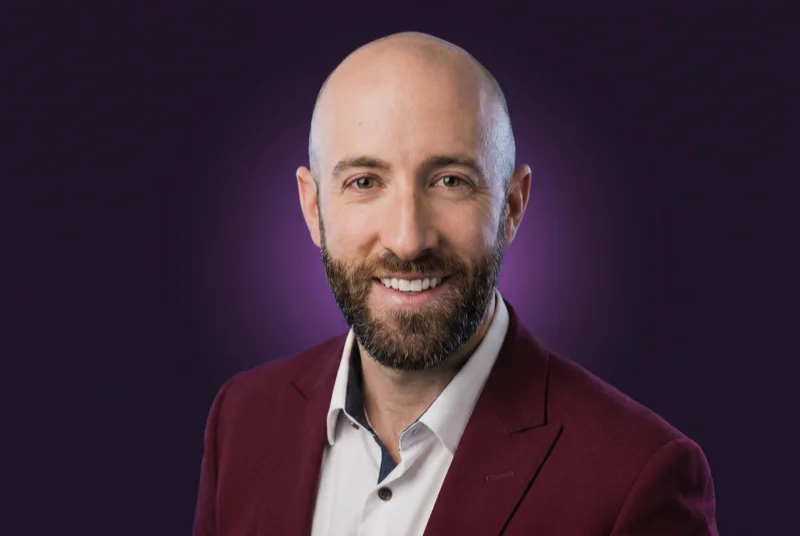
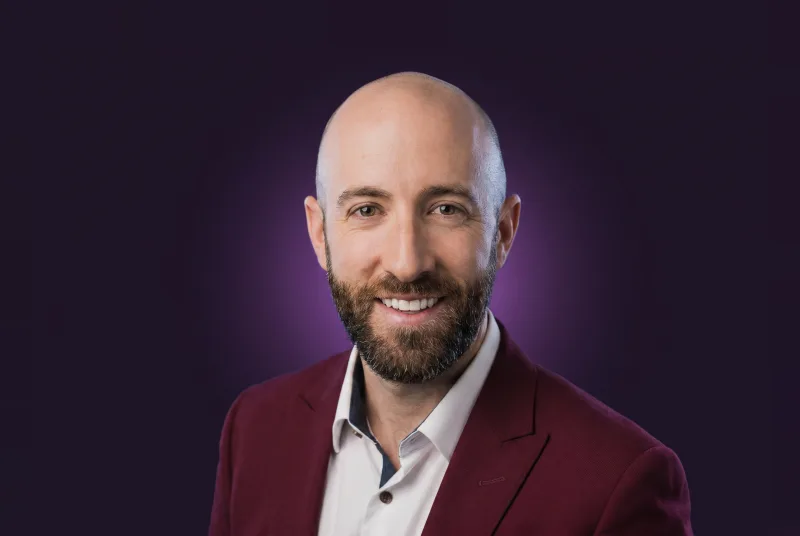
Testimonials: swap in new Michael Kara and Dan Mumm photos
Regenerated michael_kara.webp and dan_mumm.webp (800x536) from updated
source images and bumped both refs to ?v=2 so the new images bypass
browser/CDN cache instead of showing the old ones.

diff --git a/bmc.html b/bmc.html
@@ -2919,7 +2919,7 @@ color: var(--grey);
 
       <article class="t-quote">
         <div class="t-quote-photo">
-          <img class="t-quote-img" src="michael_kara.webp" alt="Michael Kara" width="800" height="550" loading="lazy" decoding="async" />
+          <img class="t-quote-img" src="michael_kara.webp?v=2" alt="Michael Kara" width="800" height="550" loading="lazy" decoding="async" />
           <span class="t-quote-chip">Real Estate</span>
         </div>
         <div class="t-quote-content">
@@ -3056,7 +3056,7 @@ color: var(--grey);
 
       <article class="t-quote">
         <div class="t-quote-photo">
-          <img class="t-quote-img" src="dan_mumm.webp" alt="Dan Mumm" width="800" height="550" loading="lazy" decoding="async" />
+          <img class="t-quote-img" src="dan_mumm.webp?v=2" alt="Dan Mumm" width="800" height="550" loading="lazy" decoding="async" />
           <span class="t-quote-chip">Real Estate</span>
         </div>
         <div class="t-quote-content">
